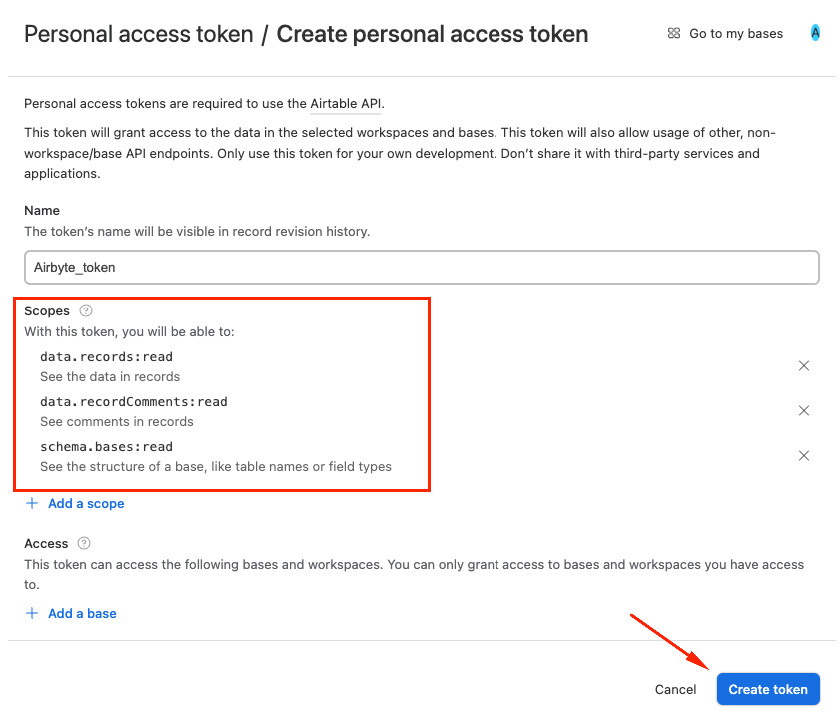
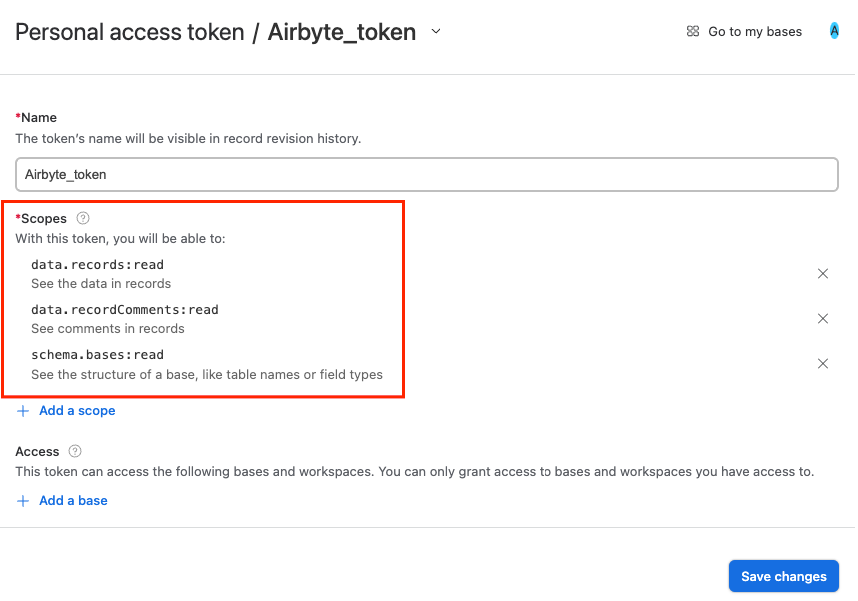
Source Airtable: add mention workspaces during PAT creation (#31572)

diff --git a/docs/integrations/sources/airtable.md b/docs/integrations/sources/airtable.md
@@ -17,13 +17,15 @@ This page contains the setup guide and reference information for the [Airtable](
 #### For Airbyte Open Source:
 1. Go to https://airtable.com/create/tokens to create new token.
     ![Generate new Token](../../.gitbook/assets/source/airtable/generate_new_token.png)
-2. Add following scopes and press the `Create Token` button:
+2. Add following scopes:
    - `data.records:read`
    - `data.recordComments:read`
    - `schema.bases:read`
 
     ![Add Scopes](../../.gitbook/assets/source/airtable/add_scopes.png)
-3. Save token from the popup window.
+3. Select required bases or allow access to all available and press the `Create Token` button.
+    ![Add Bases](../../.gitbook/assets/source/airtable/add_bases.png)
+4. Save token from the popup window.
 <!-- /env:oss -->
 
 ### Step 2: Set up Airtable connector in Airbyte
